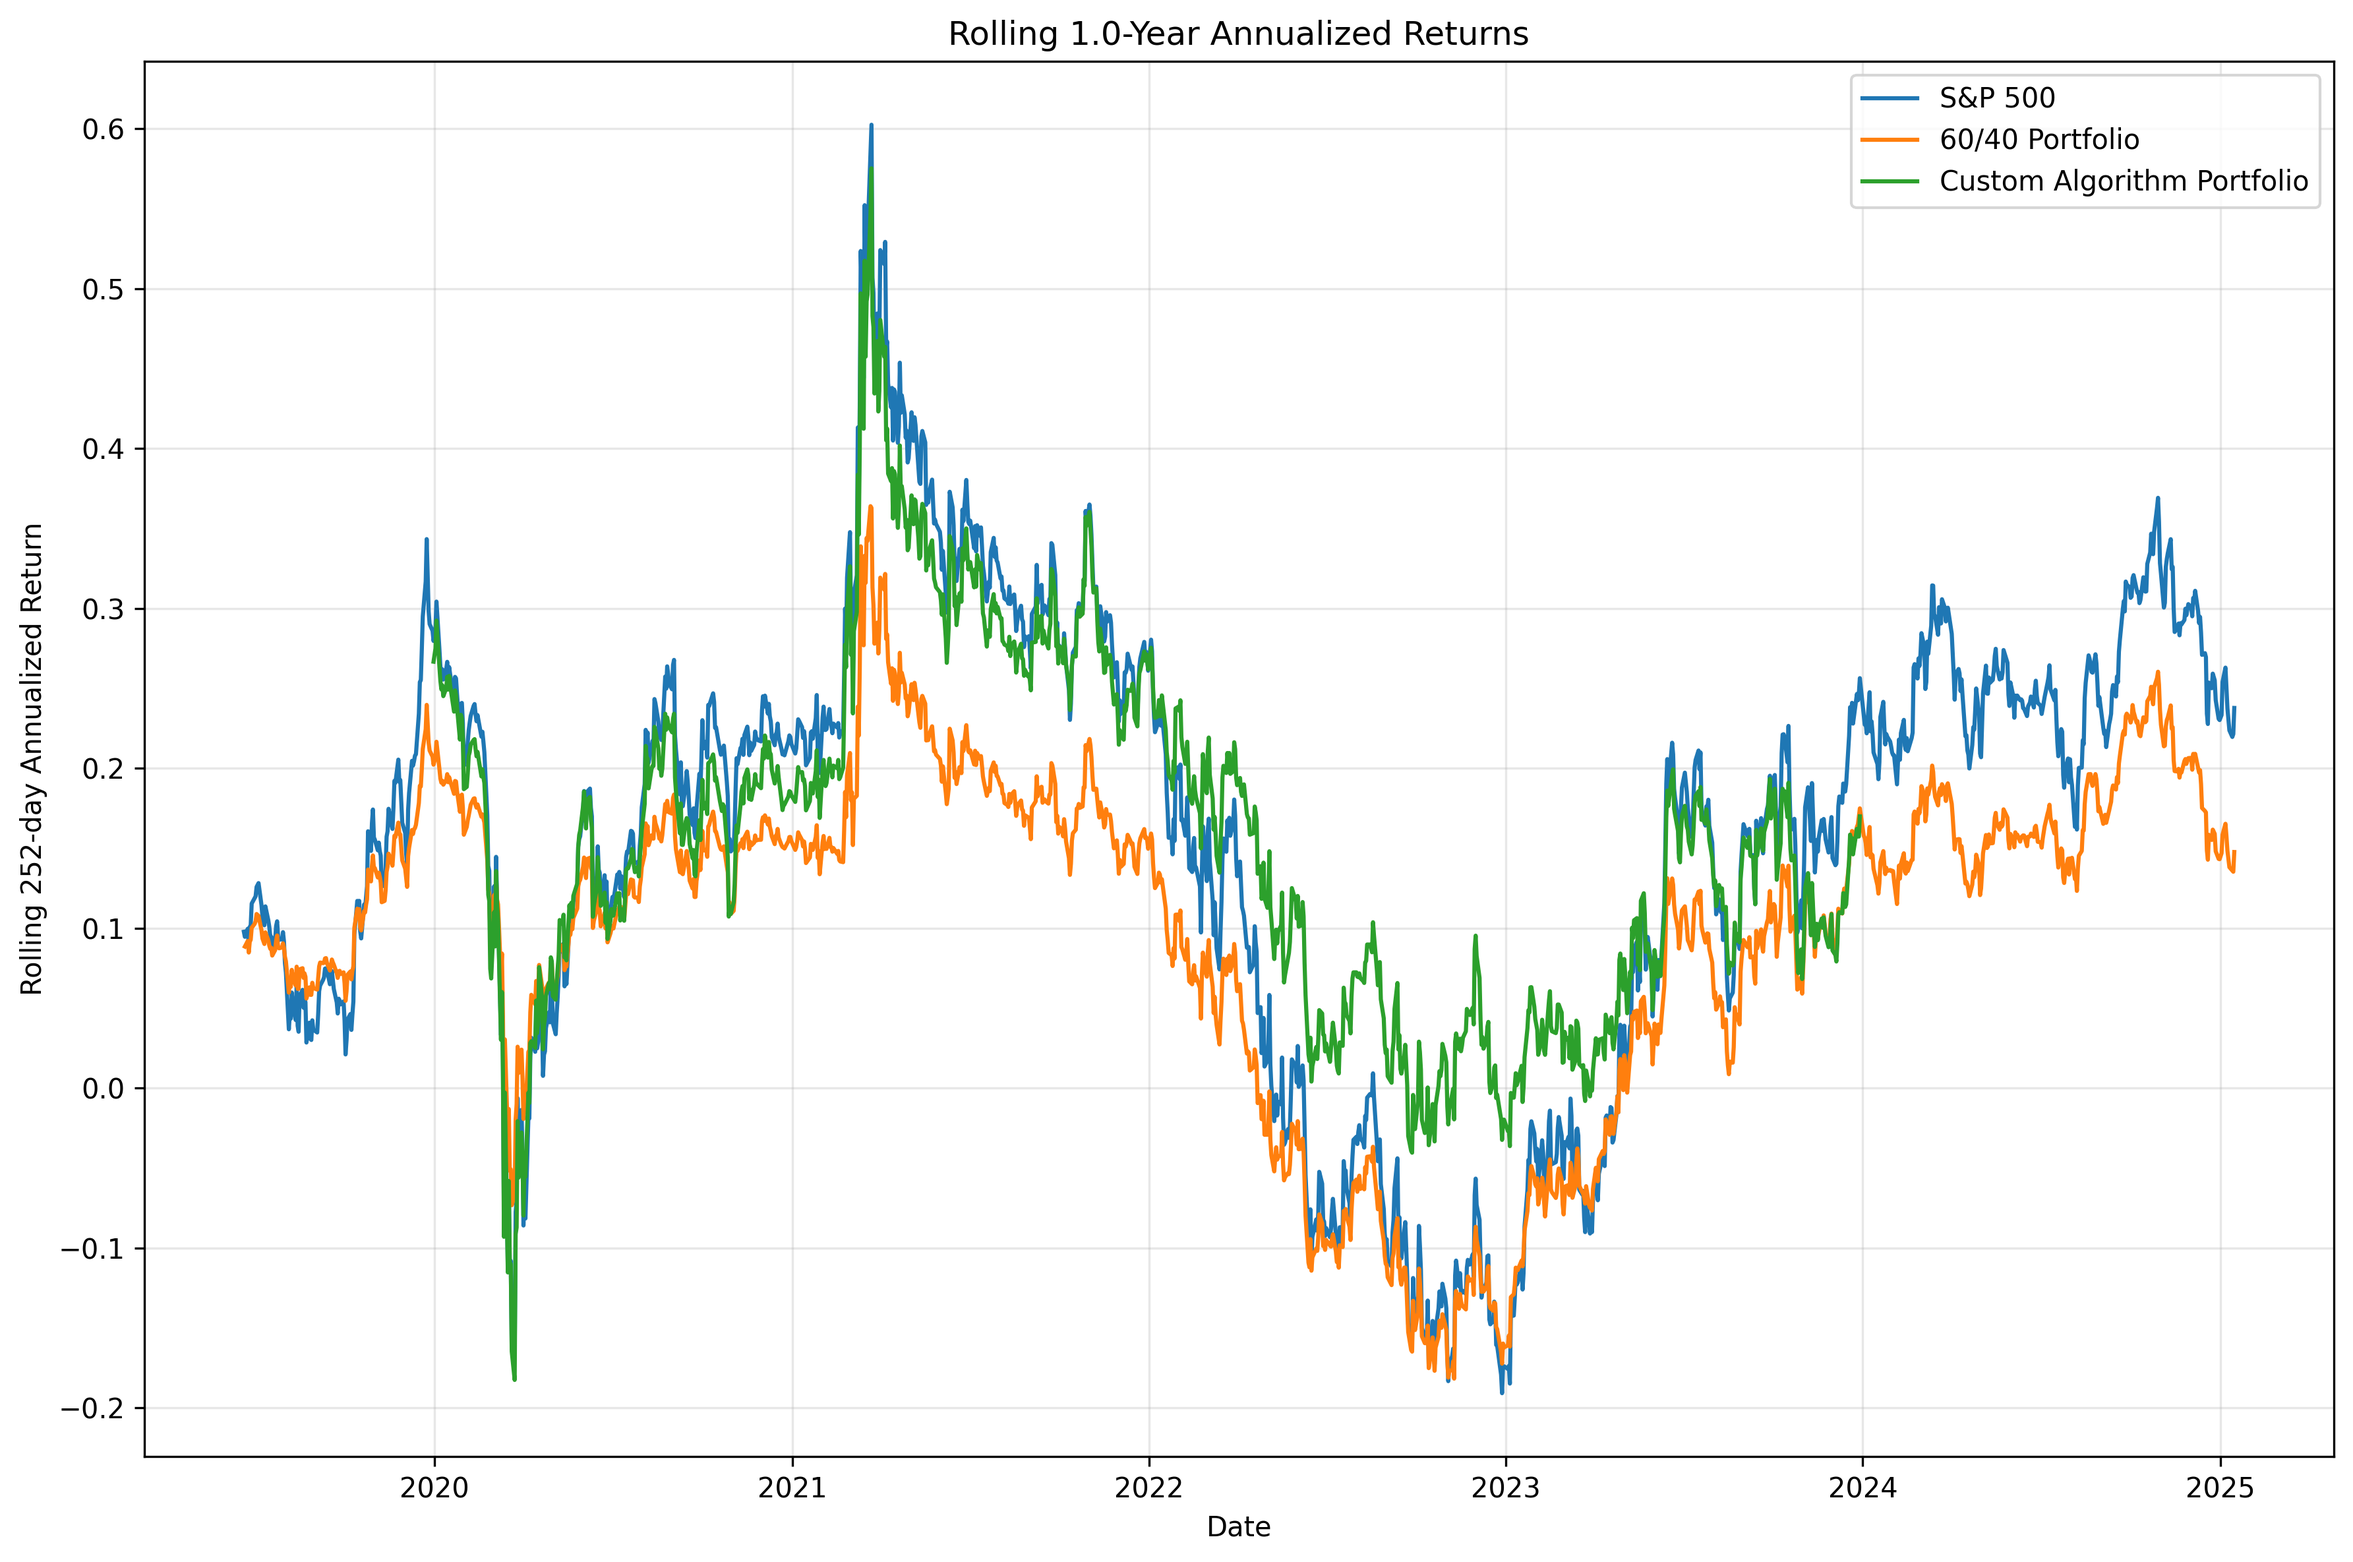
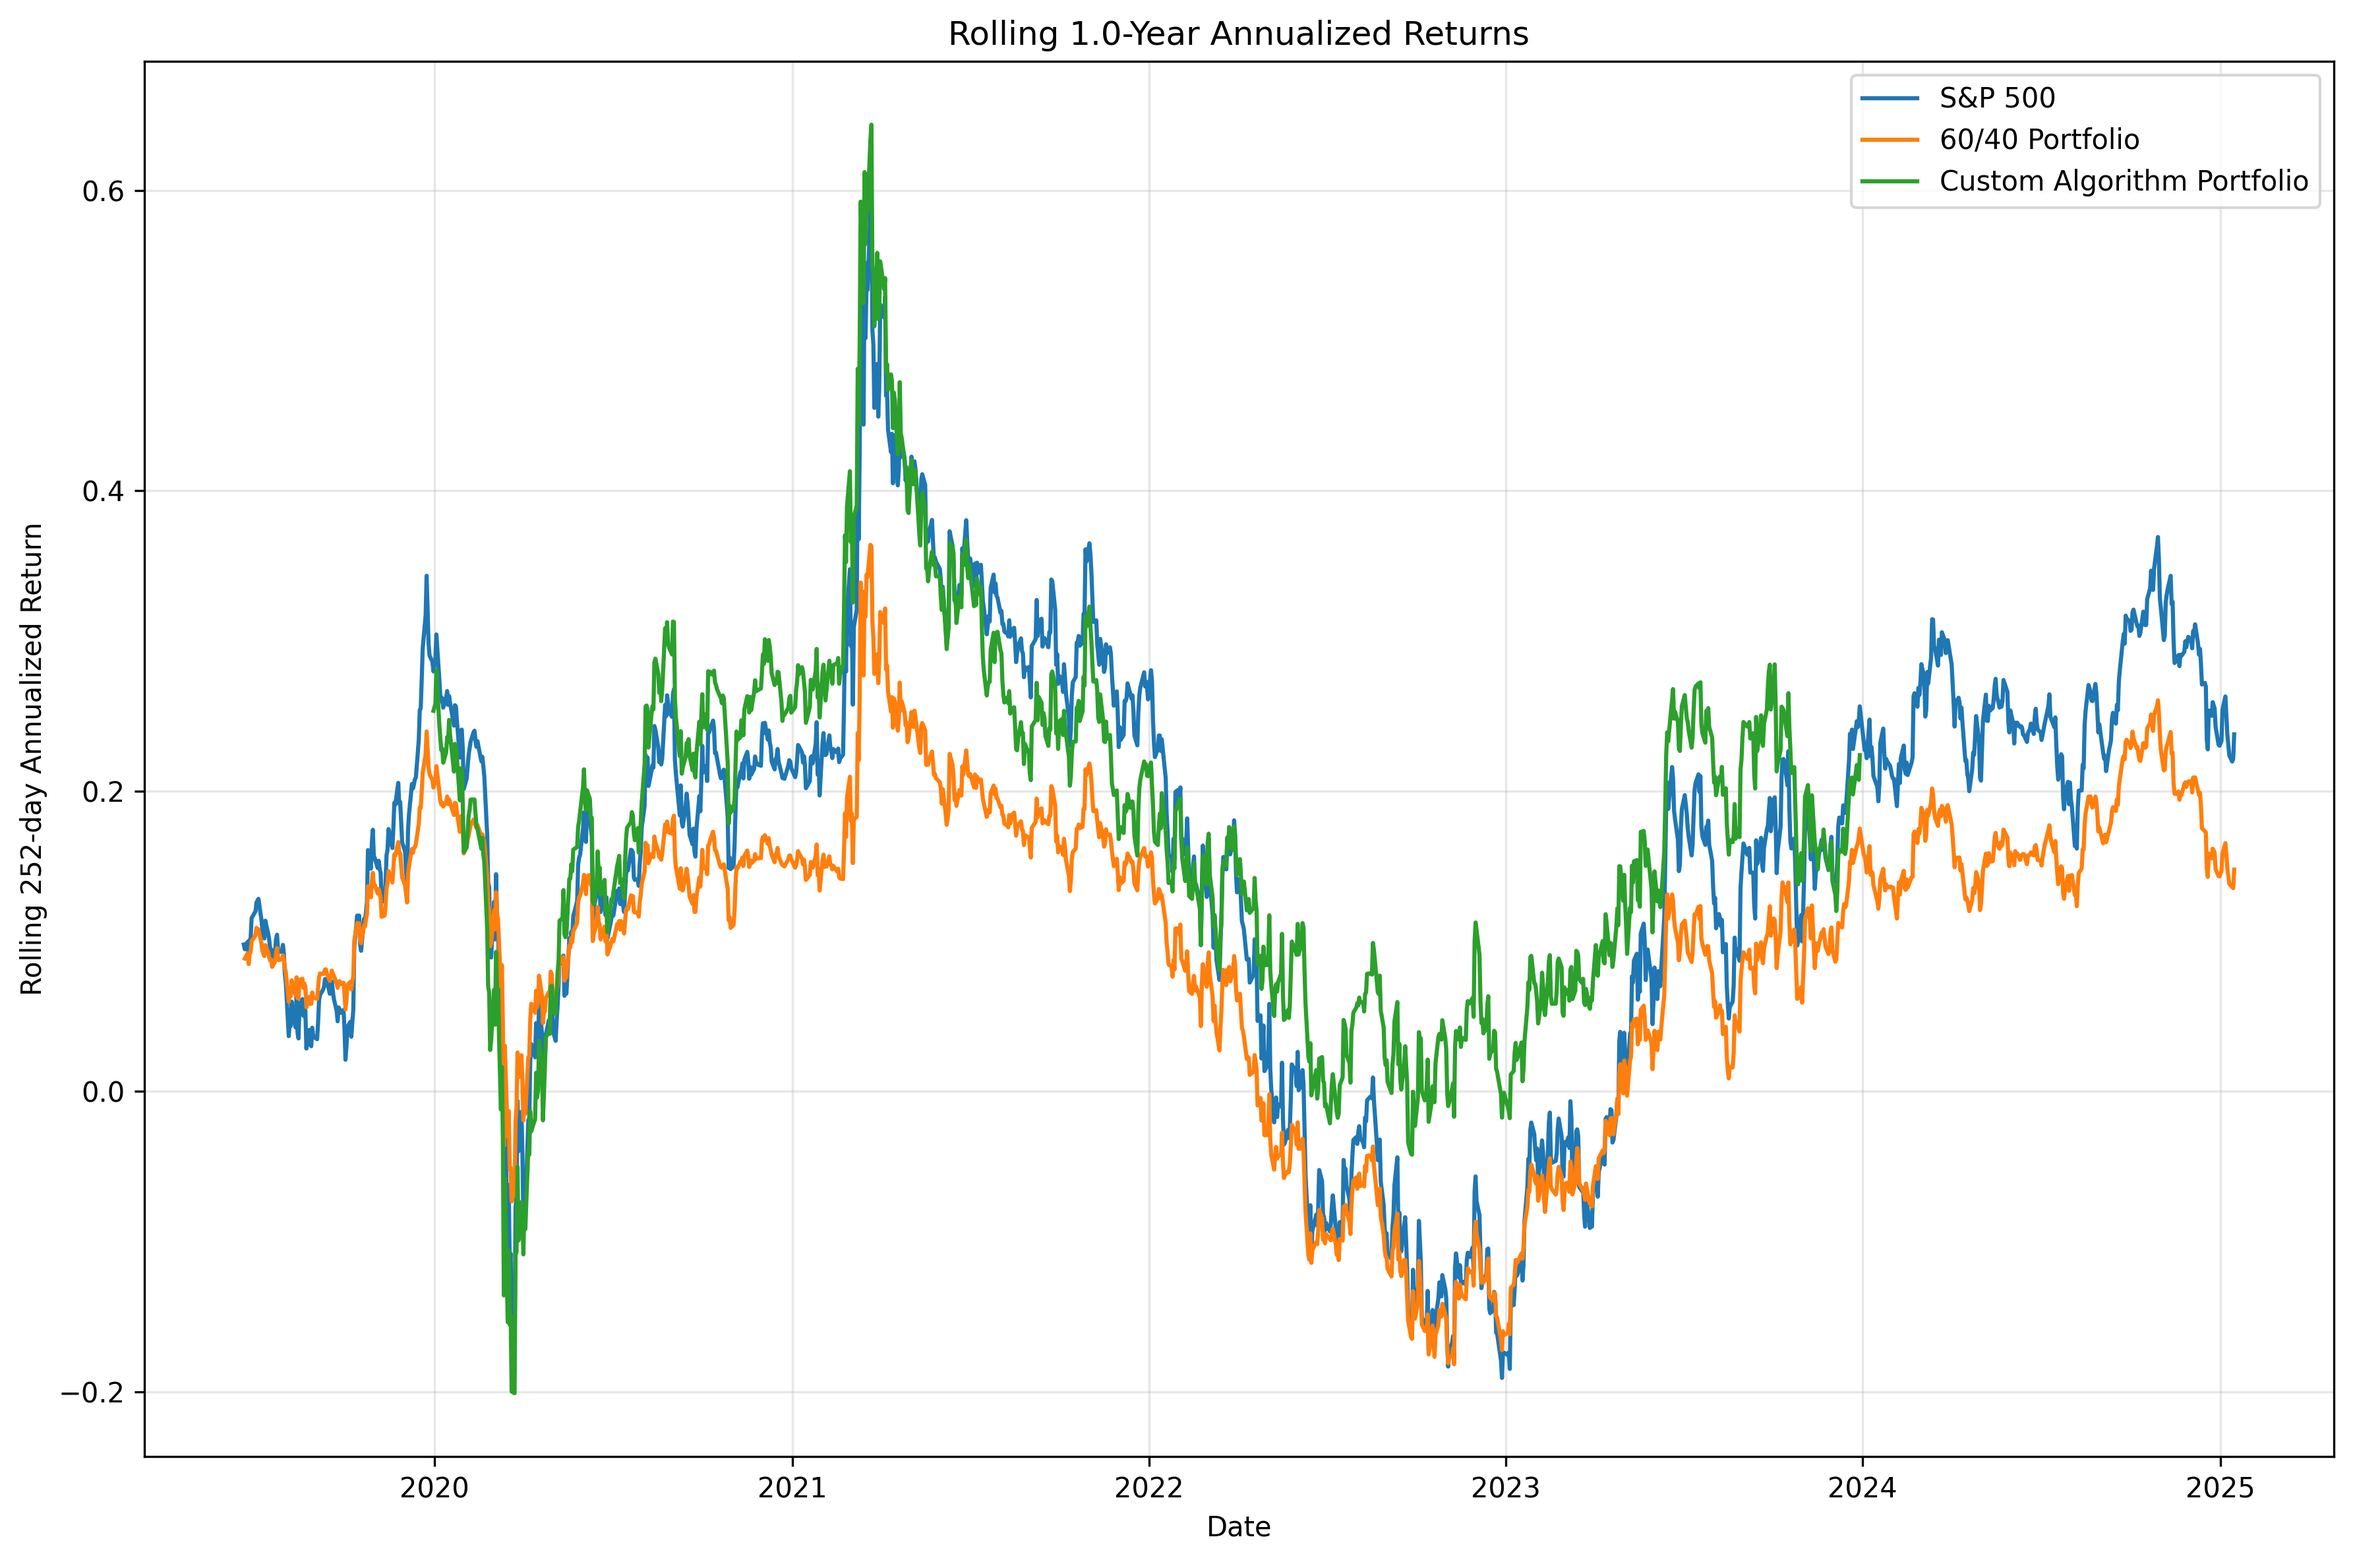
updating output

diff --git a/run.py b/run.py
@@ -540,9 +540,9 @@ def run_all(args: argparse.Namespace) -> int:
         output=DEFAULT_PATHS["models_dir"],
         period=getattr(args, "period", "recent"),
         risk_free_rate=getattr(args, "risk_free_rate", 0.02),
-        max_weight=0.25,
-        min_weight=0.01,
-        allow_short=False,
+        max_weight=getattr(args, "max_weight", 0.25),
+        min_weight=getattr(args, "min_weight", 0.01),
+        allow_short=getattr(args, "allow_short", False),
         rebalance_portfolio=getattr(args, "rebalance_portfolio", False),
         rebalance_frequency=getattr(args, "rebalance_frequency", "Q"),
         estimation_window=getattr(args, "estimation_window", 252),
@@ -580,8 +580,8 @@ def run_all(args: argparse.Namespace) -> int:
         ],
         names=[
             "S&P 500",
-            "60/40 Portfolio",
-            "Custom Algorithm Portfolio",
+            "60/40",
+            "Custom Alg",
         ],
         risk_free_rate=getattr(args, "risk_free_rate", 0.02),
         output=DEFAULT_PATHS["analysis_dir"],
@@ -911,6 +911,22 @@ def main() -> int:
         "--include-weighted",
         action="store_true",
         help="Include the Weighted Top Five Algorithm in the analysis",
+    )
+    # Add optimization parameters
+    all_parser.add_argument(
+        "--allow-short",
+        action="store_true",
+        help="Allow short selling in the Custom Algorithm portfolio",
+    )
+    all_parser.add_argument(
+        "--max-weight",
+        type=float,
+        help="Maximum weight for any asset in the Custom Algorithm portfolio",
+    )
+    all_parser.add_argument(
+        "--min-weight",
+        type=float,
+        help="Minimum weight for any asset in the Custom Algorithm portfolio",
     )
 
     # Parse arguments

diff --git a/results/analysis/benchmark_analysis.md b/results/analysis/benchmark_analysis.md
@@ -6,25 +6,25 @@
 
 |                       | S&P 500   | 60/40 Portfolio   | Custom Algorithm Portfolio   |
 |:----------------------|:----------|:------------------|:-----------------------------|
-| Total Return          | 138.65%   | 78.22%            | 114.08%                      |
-| Annualized Return     | 16.41%    | 10.04%            | 18.73%                       |
-| Annualized Volatility | 19.62%    | 12.25%            | 19.57%                       |
-| Sharpe Ratio          | 0.734     | 0.656             | 0.855                        |
-| Jensen's Alpha        | -0.01%    | -0.47%            | 1.76%                        |
-| Beta                  | 1.00      | 0.61              | 0.91                         |
-| Max Drawdown          | -33.72%   | -21.19%           | -33.03%                      |
-| Value at Risk (95%)   | -1.85%    | -1.12%            | -1.65%                       |
-| Conditional VaR (95%) | -2.99%    | -1.84%            | -2.99%                       |
-| Skewness              | -0.530    | -0.665            | -0.525                       |
-| Kurtosis              | 11.954    | 14.681            | 15.112                       |
+| Total Return          | 138.65%   | 78.22%            | 129.83%                      |
+| Annualized Return     | 16.41%    | 10.04%            | 20.65%                       |
+| Annualized Volatility | 19.62%    | 12.25%            | 20.47%                       |
+| Sharpe Ratio          | 0.734     | 0.656             | 0.911                        |
+| Jensen's Alpha        | -0.01%    | -0.47%            | 3.16%                        |
+| Beta                  | 1.00      | 0.61              | 0.93                         |
+| Max Drawdown          | -33.72%   | -21.19%           | -32.49%                      |
+| Value at Risk (95%)   | -1.85%    | -1.12%            | -1.82%                       |
+| Conditional VaR (95%) | -2.99%    | -1.84%            | -3.13%                       |
+| Skewness              | -0.530    | -0.665            | -0.530                       |
+| Kurtosis              | 11.954    | 14.681            | 9.952                        |
 
 ## Return Correlations
 
 |                            |   S&P 500 |   60/40 Portfolio |   Custom Algorithm Portfolio |
 |:---------------------------|----------:|------------------:|-----------------------------:|
-| S&P 500                    |  1        |          0.977159 |                     0.977352 |
-| 60/40 Portfolio            |  0.977159 |          1        |                     0.94943  |
-| Custom Algorithm Portfolio |  0.977352 |          0.94943  |                     1        |
+| S&P 500                    |  1        |          0.977159 |                     0.950754 |
+| 60/40 Portfolio            |  0.977159 |          1        |                     0.919913 |
+| Custom Algorithm Portfolio |  0.950754 |          0.919913 |                     1        |
 
 ## Benchmark Descriptions
 
